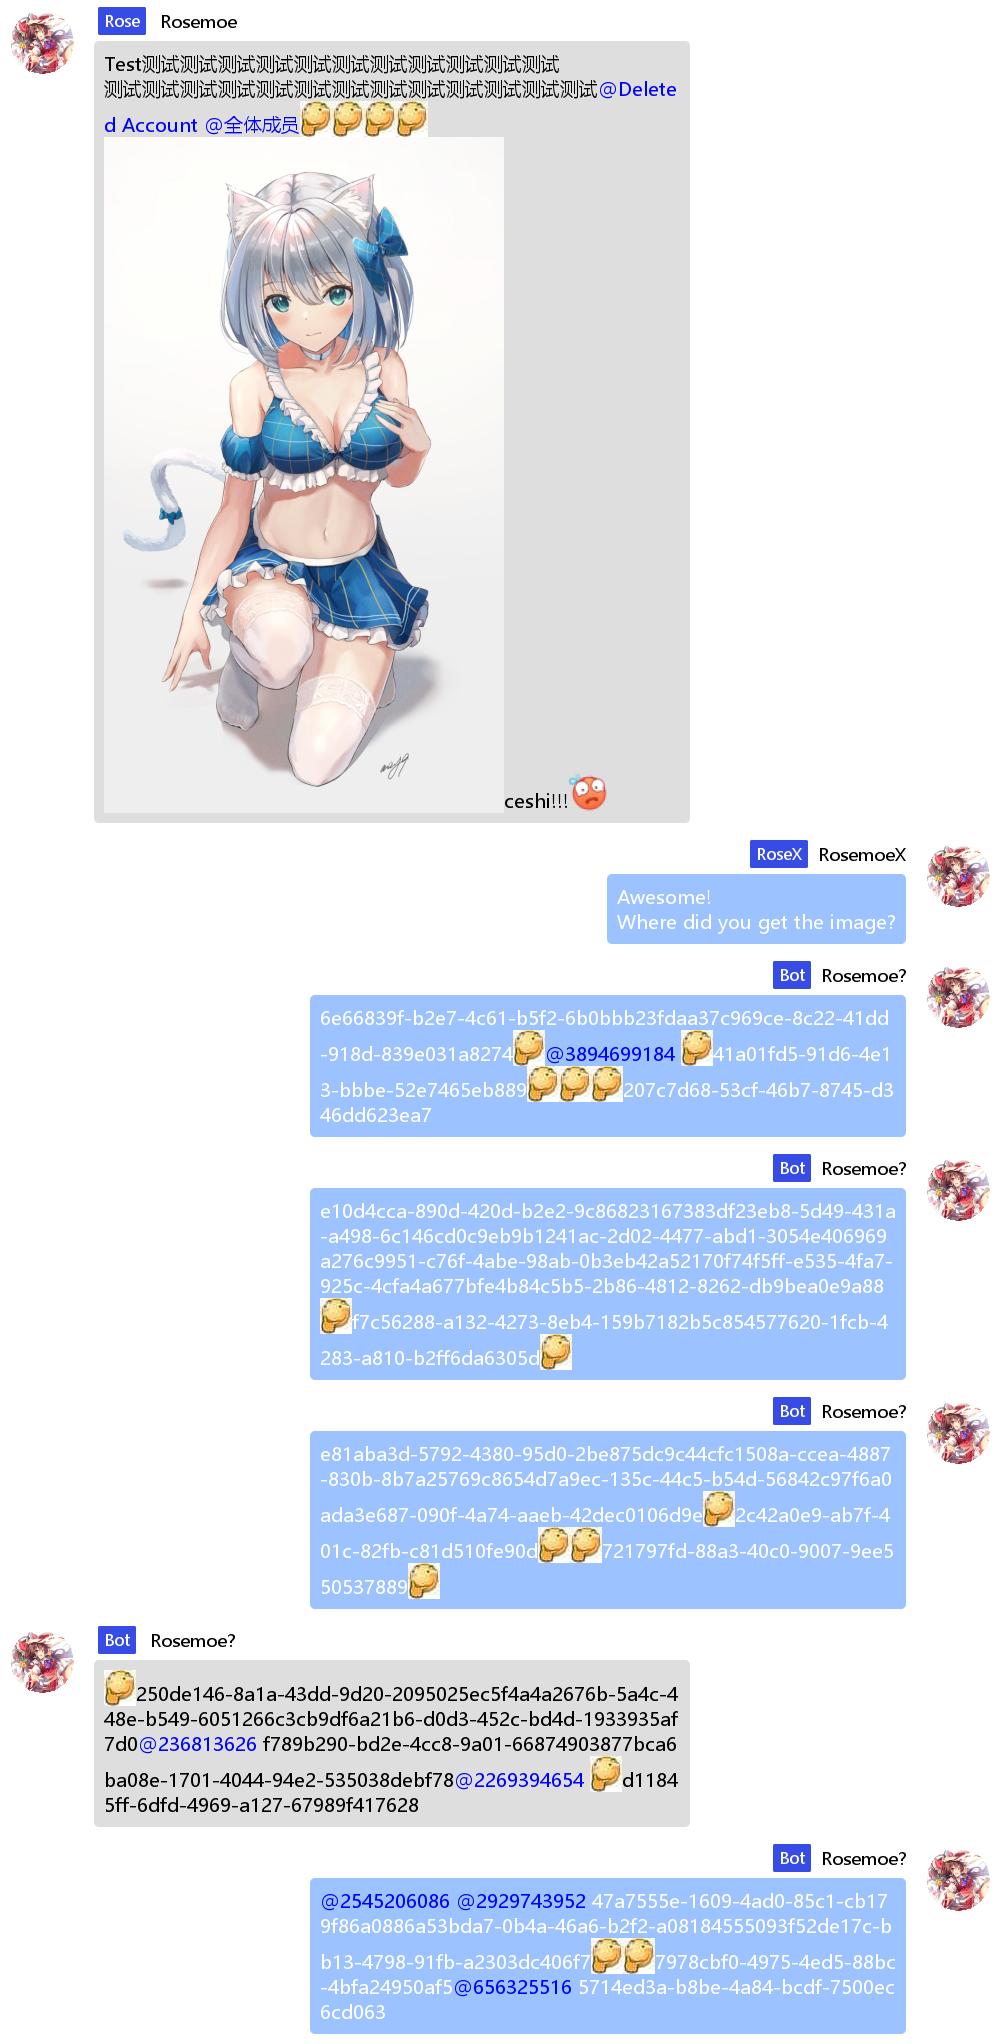
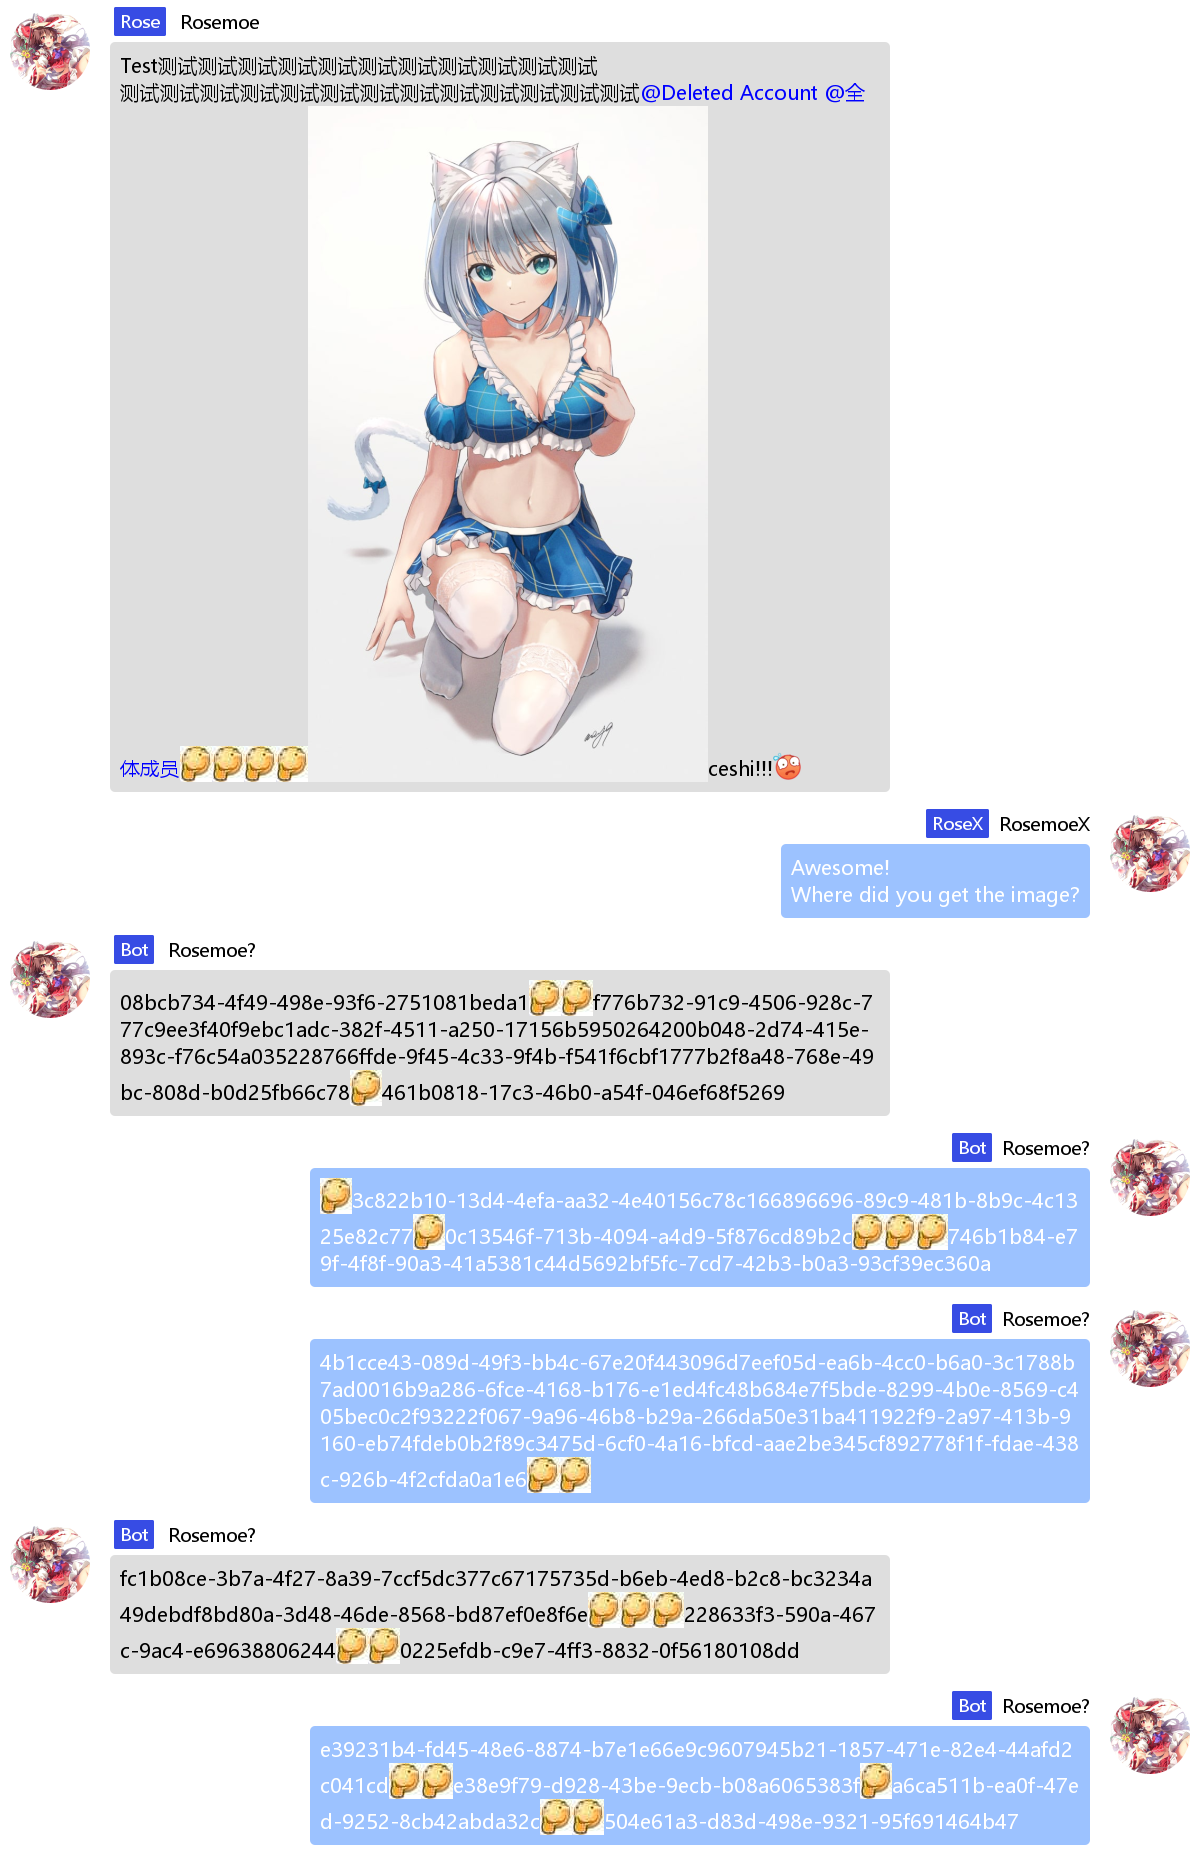
feat: minor update of default message style

diff --git a/src/main/kotlin/io/github/rosemoe/msgRenderer/RenderParams.kt b/src/main/kotlin/io/github/rosemoe/msgRenderer/RenderParams.kt
@@ -8,27 +8,27 @@ data class RenderParams(
      * The width limitation for a single message piece. This includes the space of margins,
      * avatar, nickname and title
      */
-    val widthLimit: Int = 700,
+    val widthLimit: Int = 900,
     /**
      * The width of image generated when using [MessageRenderer.renderMessages]
      */
-    val multiMsgWidth: Int = 1000,
+    val multiMsgWidth: Int = 1200,
     /**
      * The width and height of avatar
      */
-    val avatarSize: Int = 64,
+    val avatarSize: Int = 80,
     /**
      * Typeface for nicknames
      */
-    val nicknameTypeface: Font = defaultFont.deriveFont(17f),
+    val nicknameTypeface: Font = defaultFont.deriveFont(18f),
     /**
      * Typeface for title texts
      */
-    val titleTypeface: Font = defaultFont.deriveFont(16f),
+    val titleTypeface: Font = defaultFont.deriveFont(17f),
     /**
      * Typeface for message content
      */
-    val messageTypeface: Font = defaultFont.deriveFont(19f),
+    val messageTypeface: Font = defaultFont.deriveFont(20f),
     /**
      * Margin commonly used in whole image
      */
